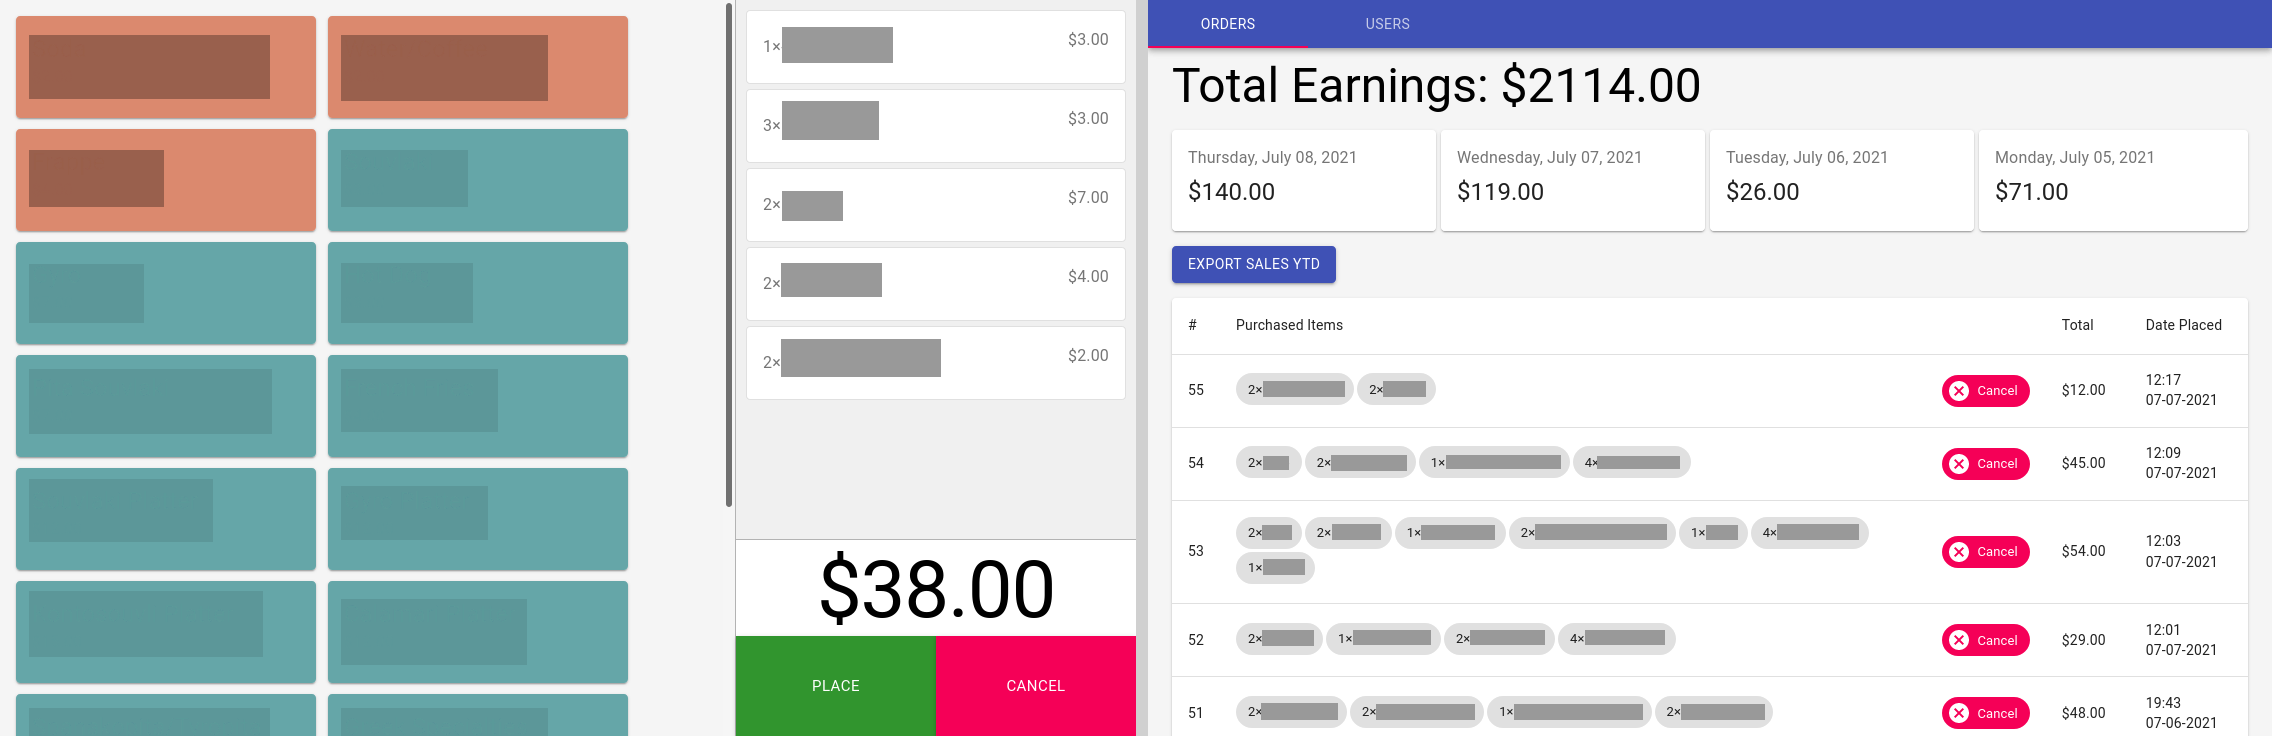
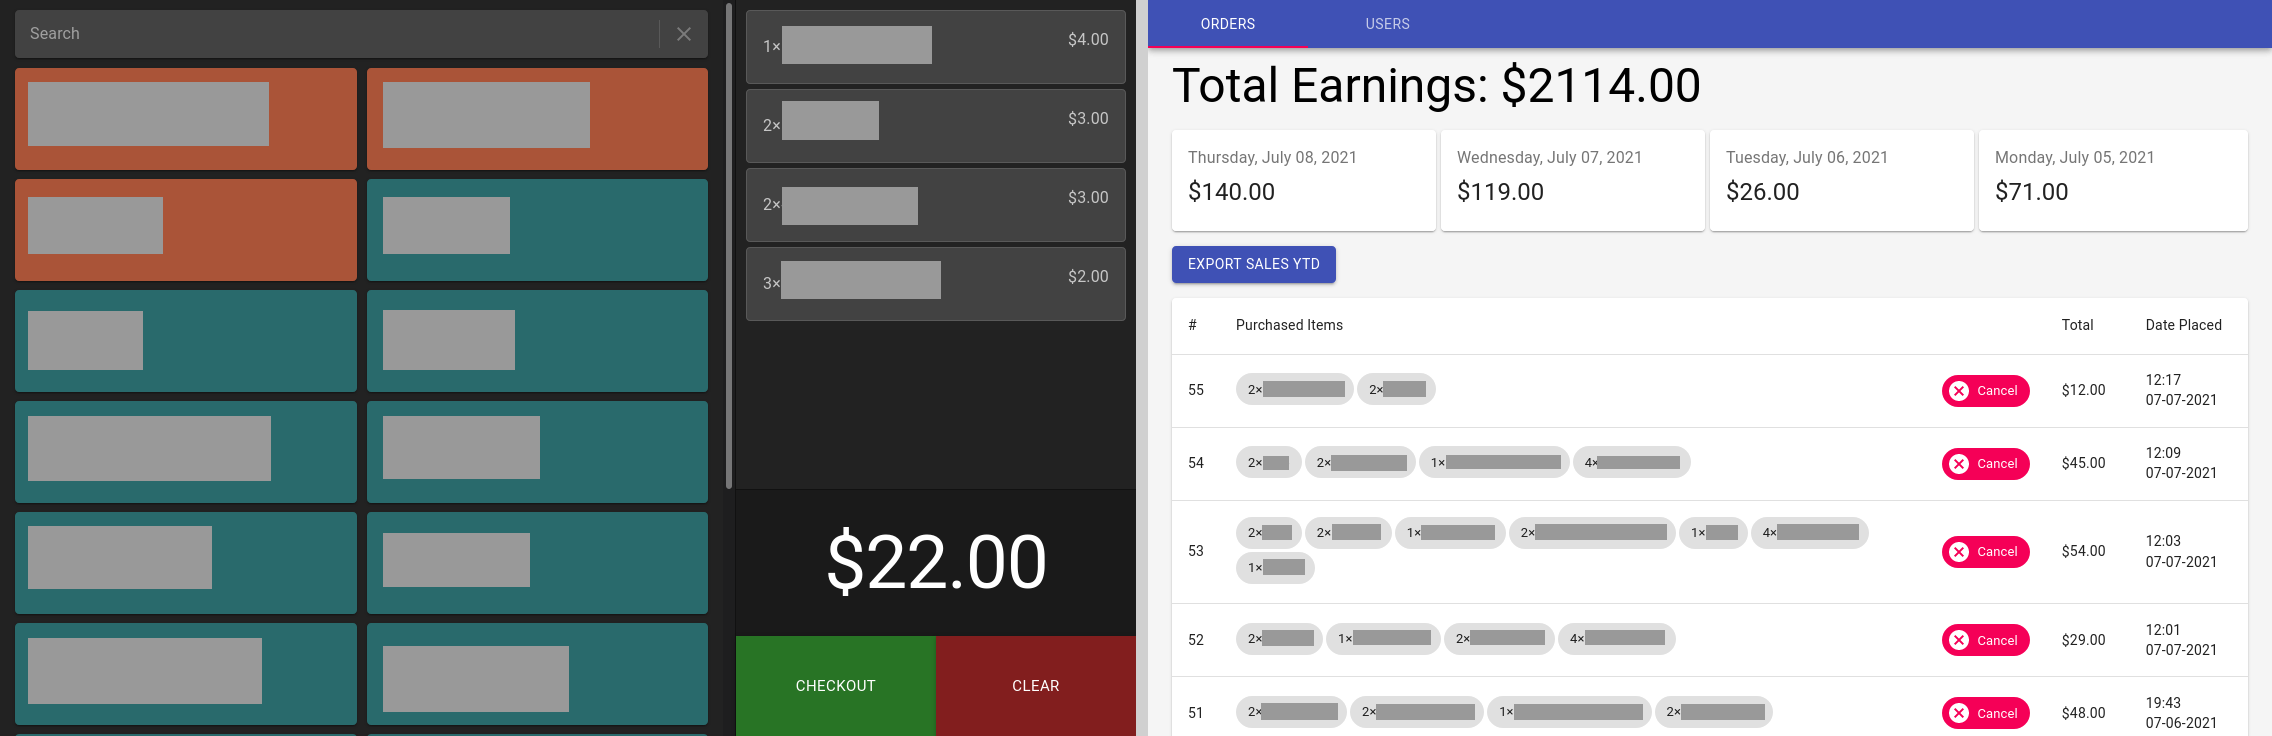
Make styles more responsive

diff --git a/ui/app/Home.tsx b/ui/app/Home.tsx
@@ -34,20 +34,30 @@ const DisplayGrid = styled.div`
         overflow: none;
         grid-template-rows: calc(80vh - 50px) calc(20vh - 50px) 100px;
 
+        @media screen and (max-height: 768px) {
+            grid-template-rows: calc(80vh - 100px) 20vh 100px;
+        }
+
         & > div:first-child {
             padding: 10px;
             overflow: auto;
-            min-height: 500px;
             background-color: #222;
         }
 
         & > div:nth-child(2) {
-            padding: 20px;
-            padding-top: 2vh;
             text-align: center;
             border-top: 1px solid #111;
             background-color: #1a1a1a;
             color: #fff;
+            display: flex;
+            -moz-box-align: center;
+            align-items: center;
+            -moz-box-pack: center;
+            justify-content: center;
+
+            & > h2 {
+                margin-bottom: 0;
+            }
 
             @media screen and (max-width: 1024px) {
                 padding-top: 1vh;
